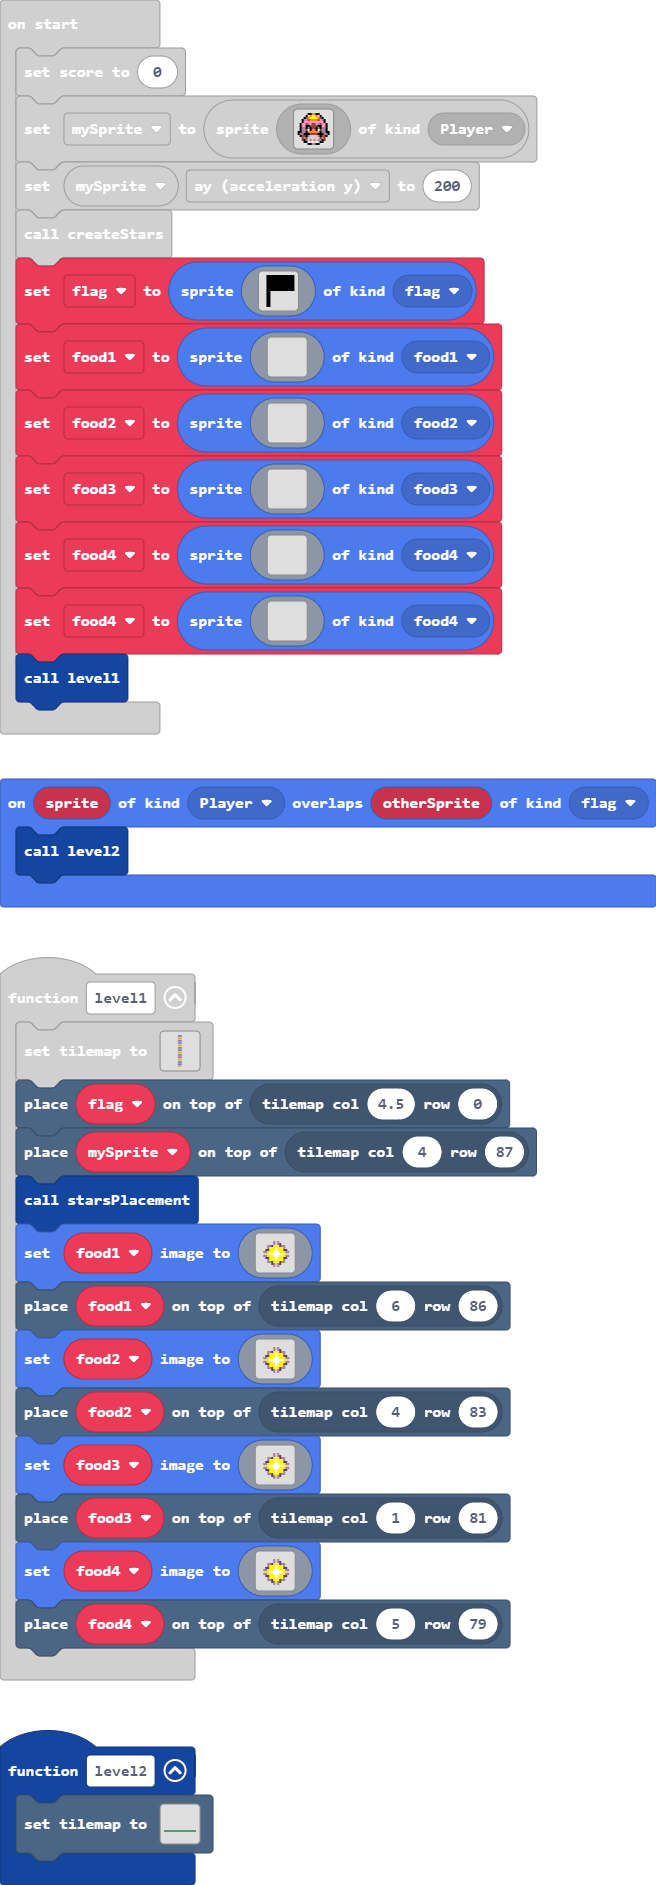
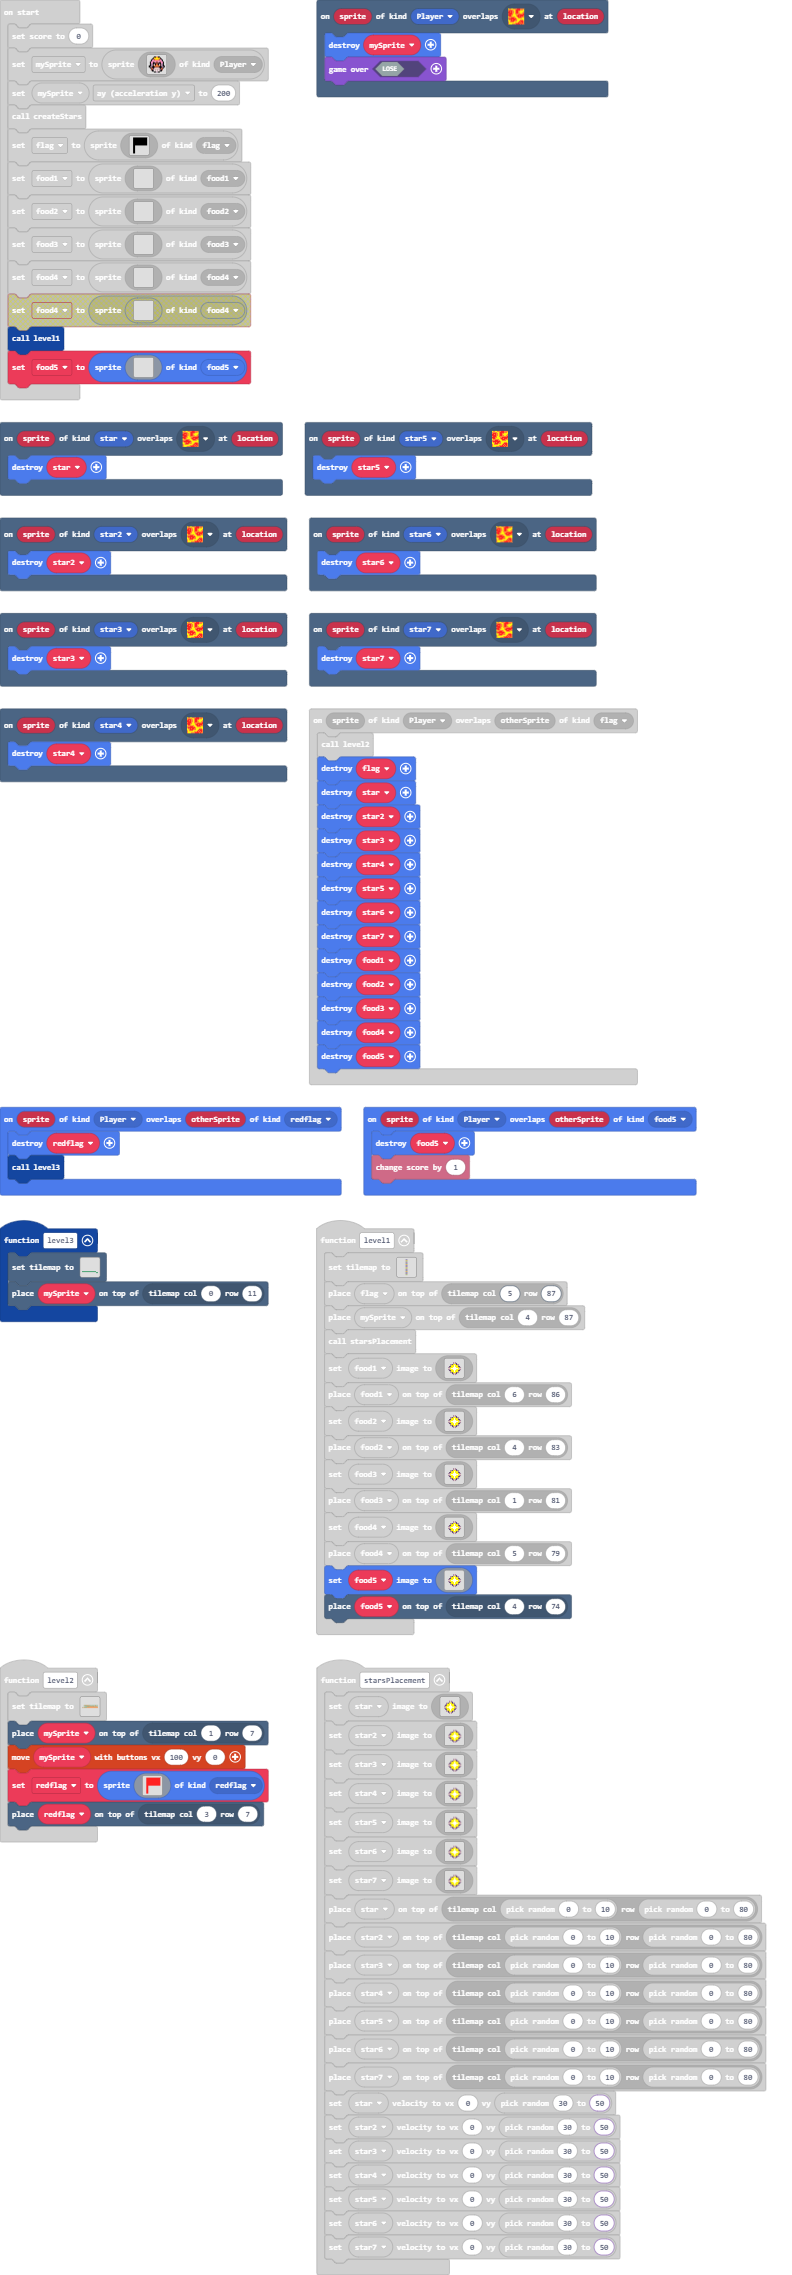
Update main.blocks, main.ts, tilemap.g.jres, tilemap.g.ts

diff --git a/tilemap.g.ts b/tilemap.g.ts
@@ -52,8 +52,21 @@ namespace myTiles {
 . . . . . . . . . . . . . . . . 
 . . . . . . . . . . . . . . . . 
 `, [myTiles.transparency16], TileScale.Sixteen);
+            case "level3":
[1 lines of base64/hex data omitted]
+.......2..2.2.22.2........2222222222222222222222222222222222
+.......2..2.2.22.2.....222..................................
+.......2....2....2..2222....................................
+.......2....2....2222.......................................
+..........2.2.22.22...22222222222222222222..................
+..........2...22....222...2..............2222222222222222222
+.......2..2...22...22.....2.................................
+.......2..2.2.22.22.......2.................................
+2222...2..2.2.22.2........2.................................
+.......2..2.2.22.2........2.................................
+`, [myTiles.transparency16,sprites.builtin.forestTiles0,sprites.dungeon.hazardLava0], TileScale.Sixteen);
             case "level1":
[2 lines of base64/hex data omitted]
 ..........
 ...2222...
 ..........
@@ -144,9 +157,9 @@ namespace myTiles {
 ..........
 ....22....
 ..........
-`, [myTiles.transparency16,myTiles.tile1,myTiles.tile4,myTiles.tile5,myTiles.tile6,myTiles.tile8,myTiles.tile9,myTiles.tile10,myTiles.tile11,myTiles.tile12,myTiles.tile13,myTiles.tile14,sprites.dungeon.hazardLava0,sprites.builtin.forestTiles10,myTiles.tile2], TileScale.Sixteen);
-            case "level3":
-            case "level3":return tiles.createTilemap(hex`1000100000000000000000000000000000000000000000000000000000000000000000000000000000000000000000000000000000000000000000000000000000000000000000000000000000000000000000000000000000000000000000000000000000000000000000000000000000000000000000000000000000000000000000000000000000000000000000000000000000000000000000000000000000000000000000000000000000000000000000000101010101010101010101010101010100000000000000000000000000000000000000000000000000000000000000000000000000000000000000000000000000000000000000000000000000000000`, img`
+`, [myTiles.transparency16,myTiles.tile1,myTiles.tile4,myTiles.tile5,myTiles.tile6,myTiles.tile8,myTiles.tile9,myTiles.tile10,myTiles.tile11,myTiles.tile12,myTiles.tile13,myTiles.tile14,sprites.dungeon.hazardLava0,sprites.builtin.forestTiles10,myTiles.tile2,sprites.dungeon.hazardLava1], TileScale.Sixteen);
+            case "level4":
+            case "level4":return tiles.createTilemap(hex`1000100000000000000000000000000000000000000000000000000000000000000000000000000000000000000000000000000000000000000000000000000000000000000000000000000000000000000000000000000000000000000000000000000000000000000000000000000000000000000000000000000000000000000000000000000000000000000000000000000000000000000000000000000000000000000000000000000000000000000000000000000000000000000000000000000001010101010101010101010101010000000000000000000000000000000001010000000000000000000000000000000000000000000000000000000000000000`, img`
 . . . . . . . . . . . . . . . . 
 . . . . . . . . . . . . . . . . 
 . . . . . . . . . . . . . . . . 
@@ -157,10 +170,10 @@ namespace myTiles {
 . . . . . . . . . . . . . . . . 
 . . . . . . . . . . . . . . . . 
 . . . . . . . . . . . . . . . . 
-. . . . . 2 2 . . . . . . . . . 
-2 2 2 2 2 2 2 2 2 2 2 2 2 2 2 2 
-. . . . . 2 2 2 2 2 2 . . . . . 
 . . . . . . . . . . . . . . . . 
+. . . . . . . . . . . . . . . . 
+2 2 2 2 2 2 2 2 2 2 2 2 2 2 . . 
+. . . . . . . . . . . . . . 2 2 
 . . . . . . . . . . . . . . . . 
 . . . . . . . . . . . . . . . . 
 `, [myTiles.transparency16,sprites.builtin.forestTiles0], TileScale.Sixteen);

diff --git a/main.ts b/main.ts
@@ -13,7 +13,12 @@ namespace SpriteKind {
     export const food3 = SpriteKind.create()
     export const food4 = SpriteKind.create()
     export const flag = SpriteKind.create()
+    export const redflag = SpriteKind.create()
+    export const food5 = SpriteKind.create()
 }
+scene.onOverlapTile(SpriteKind.star5, sprites.dungeon.hazardLava1, function (sprite, location) {
+    star5.destroy()
+})
 function createStars () {
     star = sprites.create(img`
         . . . . . . . . . . . . . . . . 
@@ -142,6 +147,9 @@ function createStars () {
         . . . . . . . . . . . . . . . . 
         `, SpriteKind.star7)
 }
+scene.onOverlapTile(SpriteKind.star, sprites.dungeon.hazardLava1, function (sprite, location) {
+    star.destroy()
+})
 sprites.onOverlap(SpriteKind.star5, SpriteKind.Player, function (sprite, otherSprite) {
     info.changeScoreBy(1)
     star5.destroy()
@@ -155,7 +163,7 @@ sprites.onOverlap(SpriteKind.Player, SpriteKind.food3, function (sprite, otherSp
 })
 function level1 () {
     tiles.setTilemap(tilemap`level1`)
-    tiles.placeOnTile(flag, tiles.getTileLocation(4.5, 0))
+    tiles.placeOnTile(flag, tiles.getTileLocation(5, 87))
     tiles.placeOnTile(mySprite, tiles.getTileLocation(4, 87))
     starsPlacement()
     food1.setImage(img`
@@ -234,13 +242,64 @@ function level1 () {
         . . . . . . . . . . . . . . . . 
         `)
     tiles.placeOnTile(food4, tiles.getTileLocation(5, 79))
+    food5.setImage(img`
+        . . . . . . . . . . . . . . . . 
+        . . . . . . . . . . . . . . . . 
+        . . . . . . . b d b . . . . . . 
+        . . . . . . . b d b c . . . . . 
+        . . . . b b c 5 5 5 c b b . . . 
+        . . . . b 5 5 5 1 5 5 5 b . . . 
+        . . . c c 5 5 5 1 5 5 5 c c . . 
+        . . b b 5 5 5 1 1 1 5 5 5 b b . 
+        . . d d 5 1 1 1 1 1 1 1 5 d d . 
+        . . b b 5 5 5 1 1 1 5 5 5 b b . 
+        . . . c c 5 5 5 1 5 5 5 c c . . 
+        . . . . b 5 5 5 1 5 5 5 b . . . 
+        . . . . b b c 5 5 5 c b b . . . 
+        . . . . . . c b d b c . . . . . 
+        . . . . . . . b d b . . . . . . 
+        . . . . . . . . . . . . . . . . 
+        `)
+    tiles.placeOnTile(food5, tiles.getTileLocation(4, 74))
 }
 scene.onOverlapTile(SpriteKind.Player, sprites.dungeon.hazardLava0, function (sprite, location) {
     mySprite.destroy()
     game.over(false)
 })
+sprites.onOverlap(SpriteKind.Player, SpriteKind.redflag, function (sprite, otherSprite) {
+    redflag.destroy()
+    level3()
+})
+function level3 () {
+    tiles.setTilemap(tilemap`level4`)
+    tiles.placeOnTile(mySprite, tiles.getTileLocation(0, 11))
+}
+scene.onOverlapTile(SpriteKind.star4, sprites.dungeon.hazardLava1, function (sprite, location) {
+    star4.destroy()
+})
 function level2 () {
     tiles.setTilemap(tilemap`level3`)
+    tiles.placeOnTile(mySprite, tiles.getTileLocation(1, 7))
+    controller.moveSprite(mySprite, 100, 0)
+    redflag = sprites.create(img`
+        . . 2 2 2 2 2 2 2 2 2 2 2 2 2 2 
+        . . 2 2 2 2 2 2 2 2 2 2 2 2 2 2 
+        . . 2 2 2 2 2 2 2 2 2 2 2 2 2 2 
+        . . 2 2 2 2 2 2 2 2 2 2 2 2 2 2 
+        . . 2 2 2 2 2 2 2 2 2 2 2 2 2 2 
+        . . 2 2 2 2 2 2 2 2 2 2 2 2 2 2 
+        . . 2 2 2 2 2 2 2 2 2 2 2 2 2 2 
+        . . 2 2 2 2 2 2 2 2 2 2 2 2 2 2 
+        . . 2 2 . . . . . . . . . . . . 
+        . . 2 2 . . . . . . . . . . . . 
+        . . 2 2 . . . . . . . . . . . . 
+        . . 2 2 . . . . . . . . . . . . 
+        . . 2 2 . . . . . . . . . . . . 
+        . . 2 2 . . . . . . . . . . . . 
+        . . 2 2 . . . . . . . . . . . . 
+        . . 2 2 . . . . . . . . . . . . 
+        `, SpriteKind.redflag)
+    tiles.placeOnTile(redflag, tiles.getTileLocation(3, 7))
 }
 sprites.onOverlap(SpriteKind.star2, SpriteKind.Player, function (sprite, otherSprite) {
     info.changeScoreBy(1)
@@ -258,17 +317,30 @@ sprites.onOverlap(SpriteKind.Player, SpriteKind.food2, function (sprite, otherSp
     food2.destroy()
     info.changeScoreBy(1)
 })
+scene.onOverlapTile(SpriteKind.Player, sprites.dungeon.hazardLava1, function (sprite, location) {
+    mySprite.destroy()
+    game.over(false)
+})
 sprites.onOverlap(SpriteKind.star7, SpriteKind.Player, function (sprite, otherSprite) {
     info.changeScoreBy(1)
     star7.destroy()
+})
+scene.onOverlapTile(SpriteKind.star6, sprites.dungeon.hazardLava1, function (sprite, location) {
+    star6.destroy()
 })
 sprites.onOverlap(SpriteKind.Player, SpriteKind.food4, function (sprite, otherSprite) {
     food4.destroy()
     info.changeScoreBy(1)
 })
+scene.onOverlapTile(SpriteKind.star7, sprites.dungeon.hazardLava1, function (sprite, location) {
+    star7.destroy()
+})
 sprites.onOverlap(SpriteKind.star, SpriteKind.Player, function (sprite, otherSprite) {
     info.changeScoreBy(1)
     star.destroy()
+})
+scene.onOverlapTile(SpriteKind.star3, sprites.dungeon.hazardLava1, function (sprite, location) {
+    star3.destroy()
 })
 sprites.onOverlap(SpriteKind.Player, SpriteKind.food1, function (sprite, otherSprite) {
     food1.destroy()
@@ -408,28 +480,50 @@ function starsPlacement () {
     tiles.placeOnTile(star5, tiles.getTileLocation(randint(0, 10), randint(0, 80)))
     tiles.placeOnTile(star6, tiles.getTileLocation(randint(0, 10), randint(0, 80)))
     tiles.placeOnTile(star7, tiles.getTileLocation(randint(0, 10), randint(0, 80)))
-    star.setVelocity(0, randint(30, 80))
-    star2.setVelocity(0, randint(30, 80))
-    star3.setVelocity(0, randint(30, 80))
-    star4.setVelocity(0, randint(30, 80))
-    star5.setVelocity(0, randint(30, 80))
-    star6.setVelocity(0, randint(30, 80))
-    star7.setVelocity(0, randint(30, 80))
+    star.setVelocity(0, randint(30, 50))
+    star2.setVelocity(0, randint(30, 50))
+    star3.setVelocity(0, randint(30, 50))
+    star4.setVelocity(0, randint(30, 50))
+    star5.setVelocity(0, randint(30, 50))
+    star6.setVelocity(0, randint(30, 50))
+    star7.setVelocity(0, randint(30, 50))
 }
 sprites.onOverlap(SpriteKind.star4, SpriteKind.Player, function (sprite, otherSprite) {
     info.changeScoreBy(1)
     star4.destroy()
 })
+scene.onOverlapTile(SpriteKind.star2, sprites.dungeon.hazardLava1, function (sprite, location) {
+    star2.destroy()
+})
+sprites.onOverlap(SpriteKind.Player, SpriteKind.food5, function (sprite, otherSprite) {
+    food5.destroy()
+    info.changeScoreBy(1)
+})
 sprites.onOverlap(SpriteKind.Player, SpriteKind.flag, function (sprite, otherSprite) {
     level2()
+    flag.destroy()
+    star.destroy()
+    star2.destroy()
+    star3.destroy()
+    star4.destroy()
+    star5.destroy()
+    star6.destroy()
+    star7.destroy()
+    food1.destroy()
+    food2.destroy()
+    food3.destroy()
+    food4.destroy()
+    food5.destroy()
 })
+let redflag: Sprite = null
 let star7: Sprite = null
 let star6: Sprite = null
-let star5: Sprite = null
 let star4: Sprite = null
 let star3: Sprite = null
 let star2: Sprite = null
 let star: Sprite = null
+let star5: Sprite = null
+let food5: Sprite = null
 let food4: Sprite = null
 let food3: Sprite = null
 let food2: Sprite = null
@@ -547,7 +641,7 @@ food4 = sprites.create(img`
     . . . . . . . . . . . . . . . . 
     . . . . . . . . . . . . . . . . 
     `, SpriteKind.food4)
-food4 = sprites.create(img`
+food5 = sprites.create(img`
     . . . . . . . . . . . . . . . . 
     . . . . . . . . . . . . . . . . 
     . . . . . . . . . . . . . . . . 
@@ -564,7 +658,7 @@ food4 = sprites.create(img`
     . . . . . . . . . . . . . . . . 
     . . . . . . . . . . . . . . . . 
     . . . . . . . . . . . . . . . . 
-    `, SpriteKind.food4)
+    `, SpriteKind.food5)
 level1()
 forever(function () {
     controller.moveSprite(mySprite, 100, 0)
